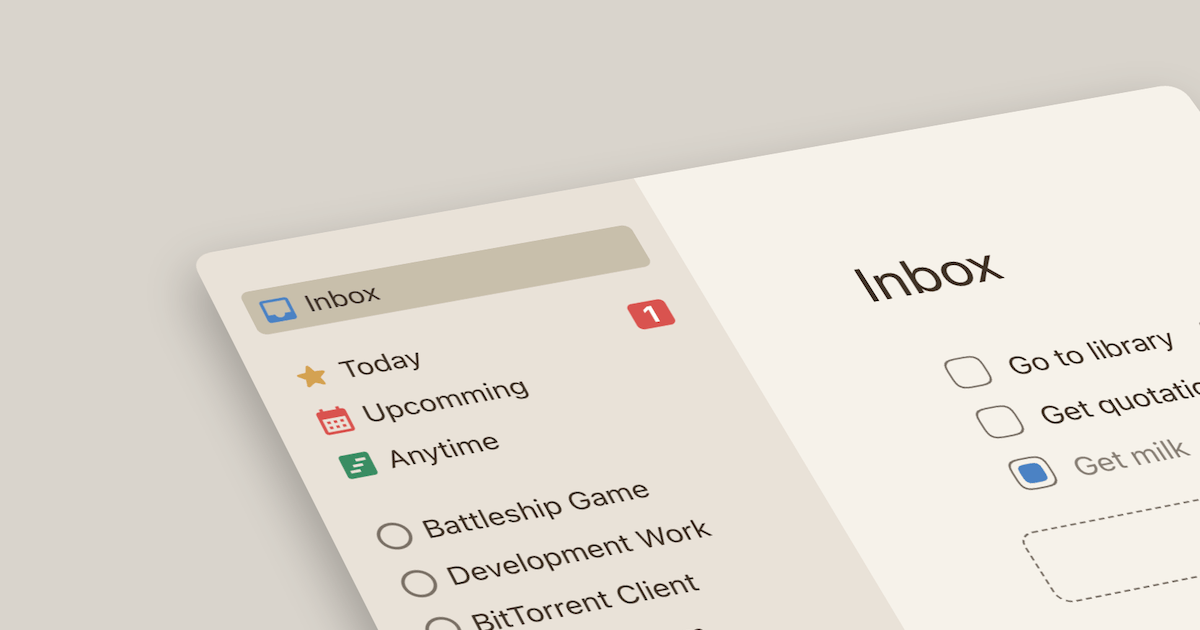
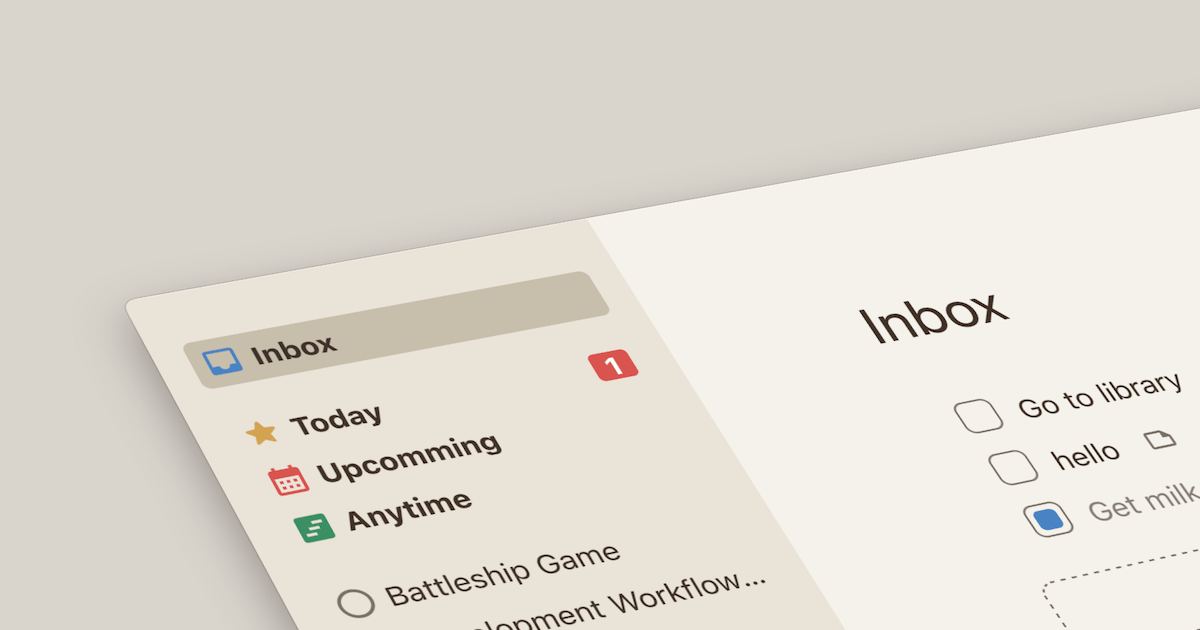
Update screenshot. Update README.

diff --git a/README.md b/README.md
@@ -4,17 +4,60 @@
 
 This is a solution to the [Todo challenge from the Odin Project](https://www.theodinproject.com/lessons/node-path-javascript-todo-list).
 
-## Overview
-
-### The challenge
-
-To build the core logic using OOP principles.
-
-### Links
+## Links
 
 - Solution on: [GitHub](https://github.com/sydalwedaie/odin-project-todo)
 - Live Site on: [Netlify](https://odin-project-todo-0usyw.netlify.app/)
 
+## The Challenge
+
+I wanted to take this as an opportunity to hone my architectural decision-making skills using vanilla JS, before moving on to libraries and frameworks that would abstract away a lot of these concepts.
+
 ## What I learned
 
-- My second attempt at trying to build using MVC architecture.
+This is my second attempt at building using the MVC architecture.
+
+`model.js` contains the business logic. It exposes a set of methods, accessible through the `collection`. For example, `collection.addTodo(details)`, `collection.deleteTodo(id)`, and so on. In the first iteration of this project, I had a million little classes that get called from other classes to build the model from the smallest building blocks. I had a `collection` class that built the whole database using the `project` class that built each project using a `todoList` class that used a `todo` class! Even then, I had a `Model` class that exposed all of the functions of the application by calling individual methods from those subclasses. It worked, but I reached a point where I could not follow the logic to even add a single feature. That is why in this final version, I only have a single `collection` class that holds the entire logic.
+
+The view is split into several files, each starting with `view_`. They're responsible for defining the template and binding event listeners. Depending on the view type, these classes receive some part of the database and populate the template accordingly. Each view class has a _render_ function that, when called, renders the template to a root element that would be passed on when instantiating the view. The event listeners live in the same class, too, which makes them easily accessible later on through the controller. That way, I could do `sidebar.render()` and `sidebar.bindShowIndex()`, and I would instantly know where both methods were defined.
+
+`controller.js` is the glue that instantiates a model and injects it into the view. In a strict MVC setup, the controller should not know anything about the HTML, or so I have read. Again, in a previous version, I had a `View()` class that would call each of the other view classes and expose their methods to the controller through a single view instance. I found that to be overkill for this project, so I included handles to a few key parts of the DOM in the controller; things like the sidebar and the main content area. That way, I would have a starting point to begin the rendering process directly from the controller.
+
+## What I Learned
+
+I had the biggest struggle wrapping my head around the concept of `bind` methods. These are functions that attach the event listener when called, expecting a click handler function, with an argument passed in from the view class. When I first learned about event listeners, I would get a hold of a DOM element, like a button, and do `addEventListener` directly on it, passing an inline function to do what I wanted that button to do. But that meant my event listener, which effectively lives in the controller part of the code, would need to know a lot about the view. The `bind` methods split this logic into two. The first part is a function that defines the listener. It lives in the view and has access to the DOM. This function does not return anything. It only _attaches_ the listener, and _calls_ a _click handler_ function that would be passed to the `bind` method in the controller. The `bind` method does NOT contain the logic of what happens when the event triggers. Instead, it passes a value to the controller and lets the controller determine what to do with it. What a mouthful!
+
+Let's walk through this with an example:
+The controller instantiates a model by `new Collection`. The controller now has access to `collection.projects()`, which returns an array of the projects. Nothing less, nothing more. The controller also instantiates a sidebar view by `new Sidebar()`, passing in the projects from the collection (to render the list of projects in the sidebar).
+
+Sidebar has a `bindShowProject` method that _recieves_ a click handler, and _calls_ it, passing in the project's name that was clicked. At this point, the view does not care what `handleClick` is. It just knows that it should call it with the project's name when the event triggers.
+
+```js
+// view_sidebar.js
+bindShowProject(handleClick) {
+    this.root.addEventListener("click", (e) => {
+        const btn = e.target.closest("button");
+        if (btn && btn.dataset.projectName) {
+            handleClick(btn.dataset.projectName);
+        }
+    });
+}
+```
+
+Later, we call this method in the controller, passing an inline function. This inline function is the `handleClick` from the bind method. And the `btn.data.projectName` argument we passed there would correspond to the `projectName` parameter of this inline function in the controller. This function, in turn, would be in charge of the logic of showing the project (`renderContentView`).
+
+```js
+// controller.js
+view.bindShowProject((projectName) => {
+    this.renderContentView(
+        this.#contentEl,
+        "project",
+        projectName,
+        this.#collection.getTodosByProject(projectName)
+    );
+});
+```
+
+## Attribution
+
+Designed based on [Things](https://culturedcode.com/things/) app.
